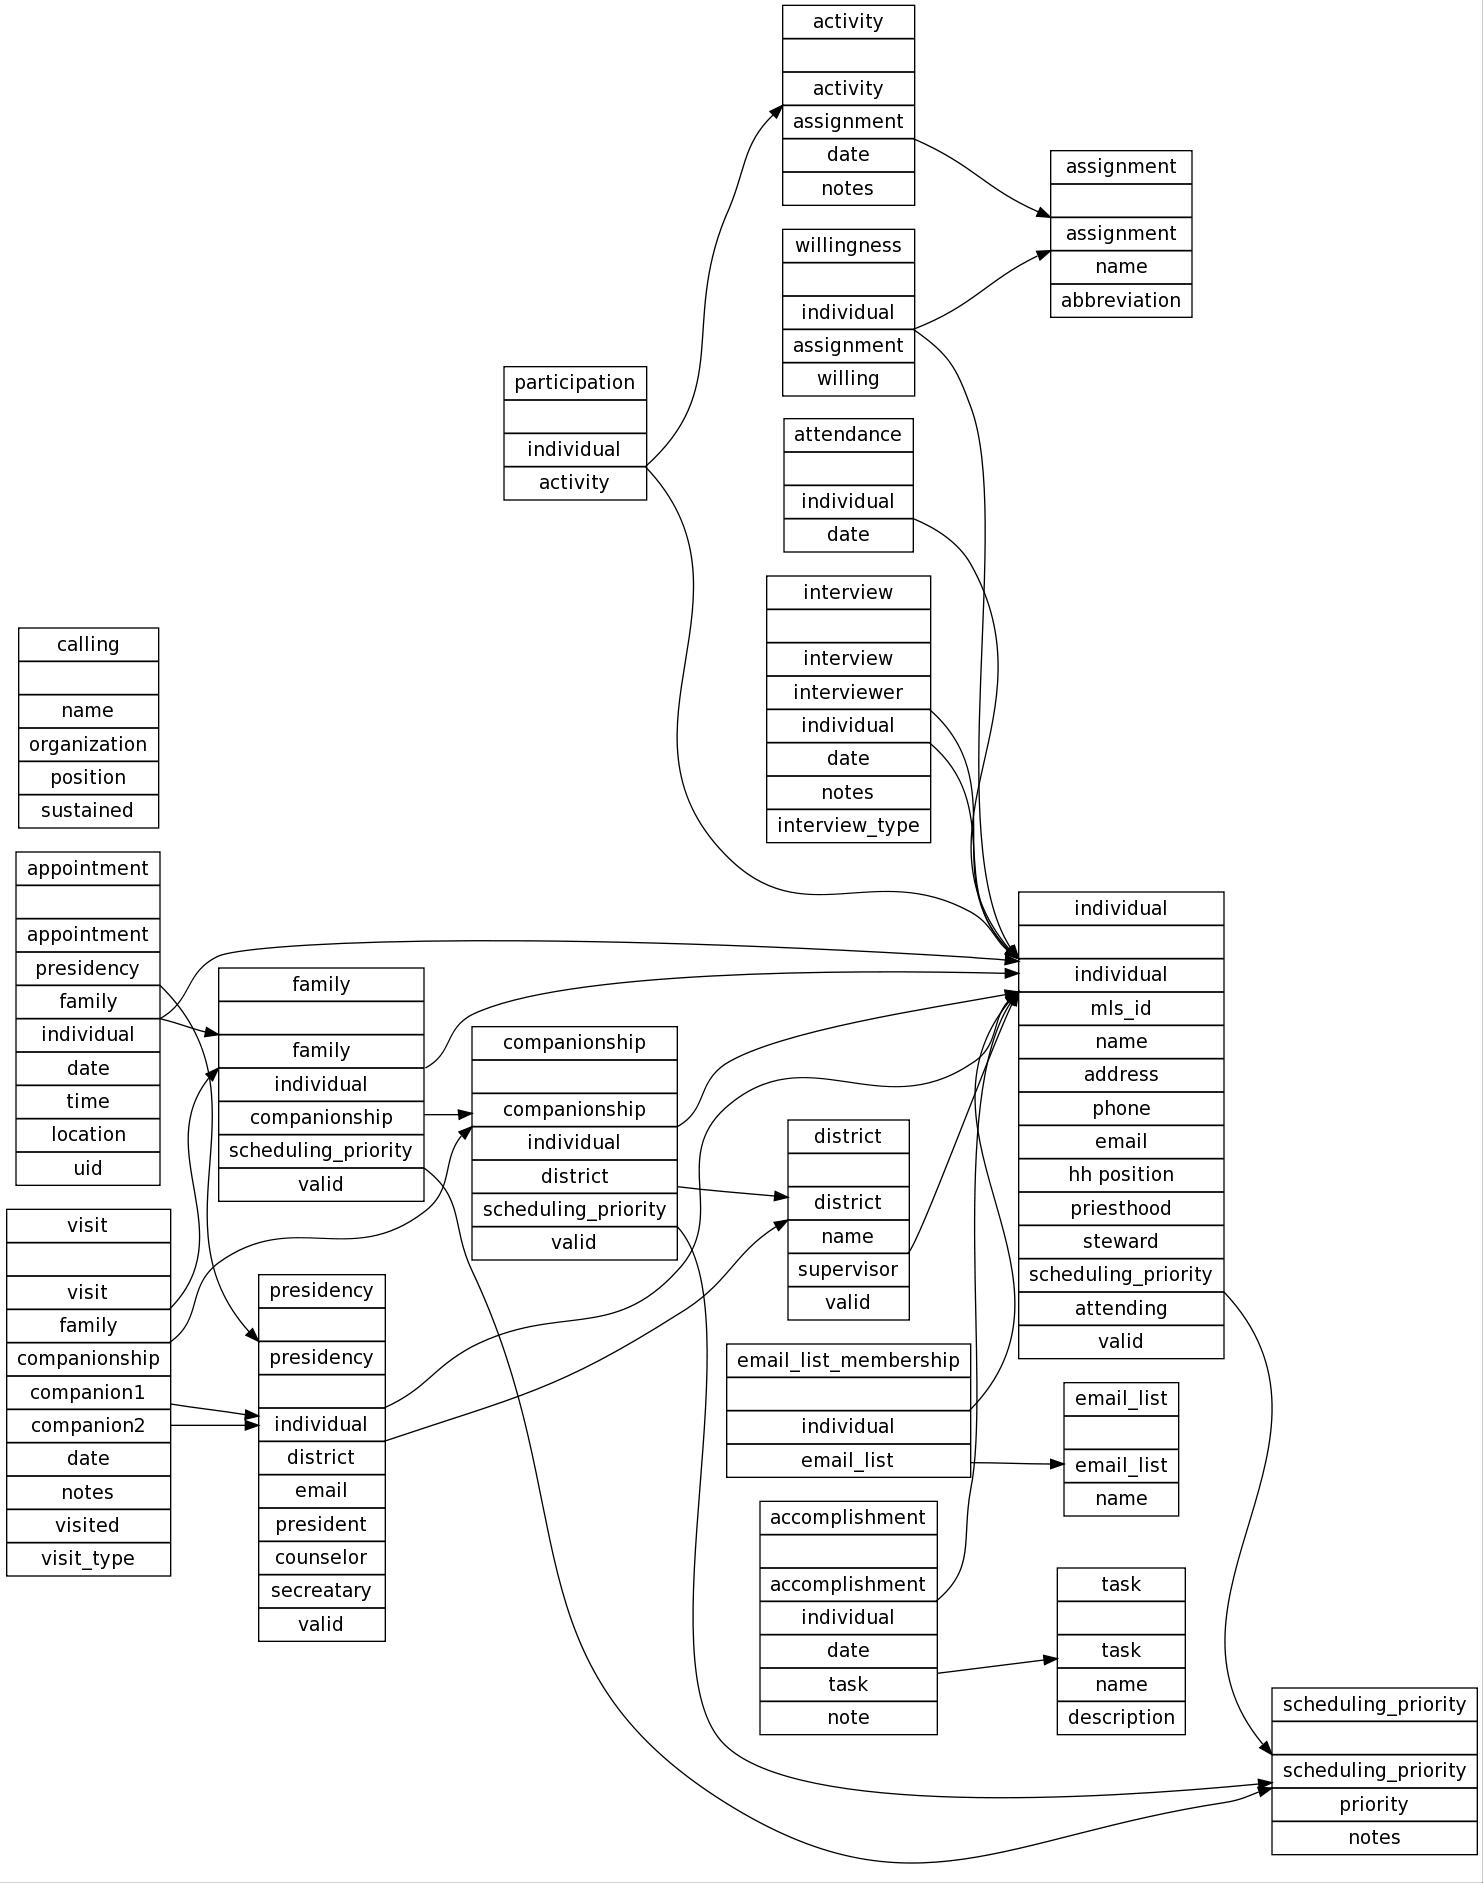
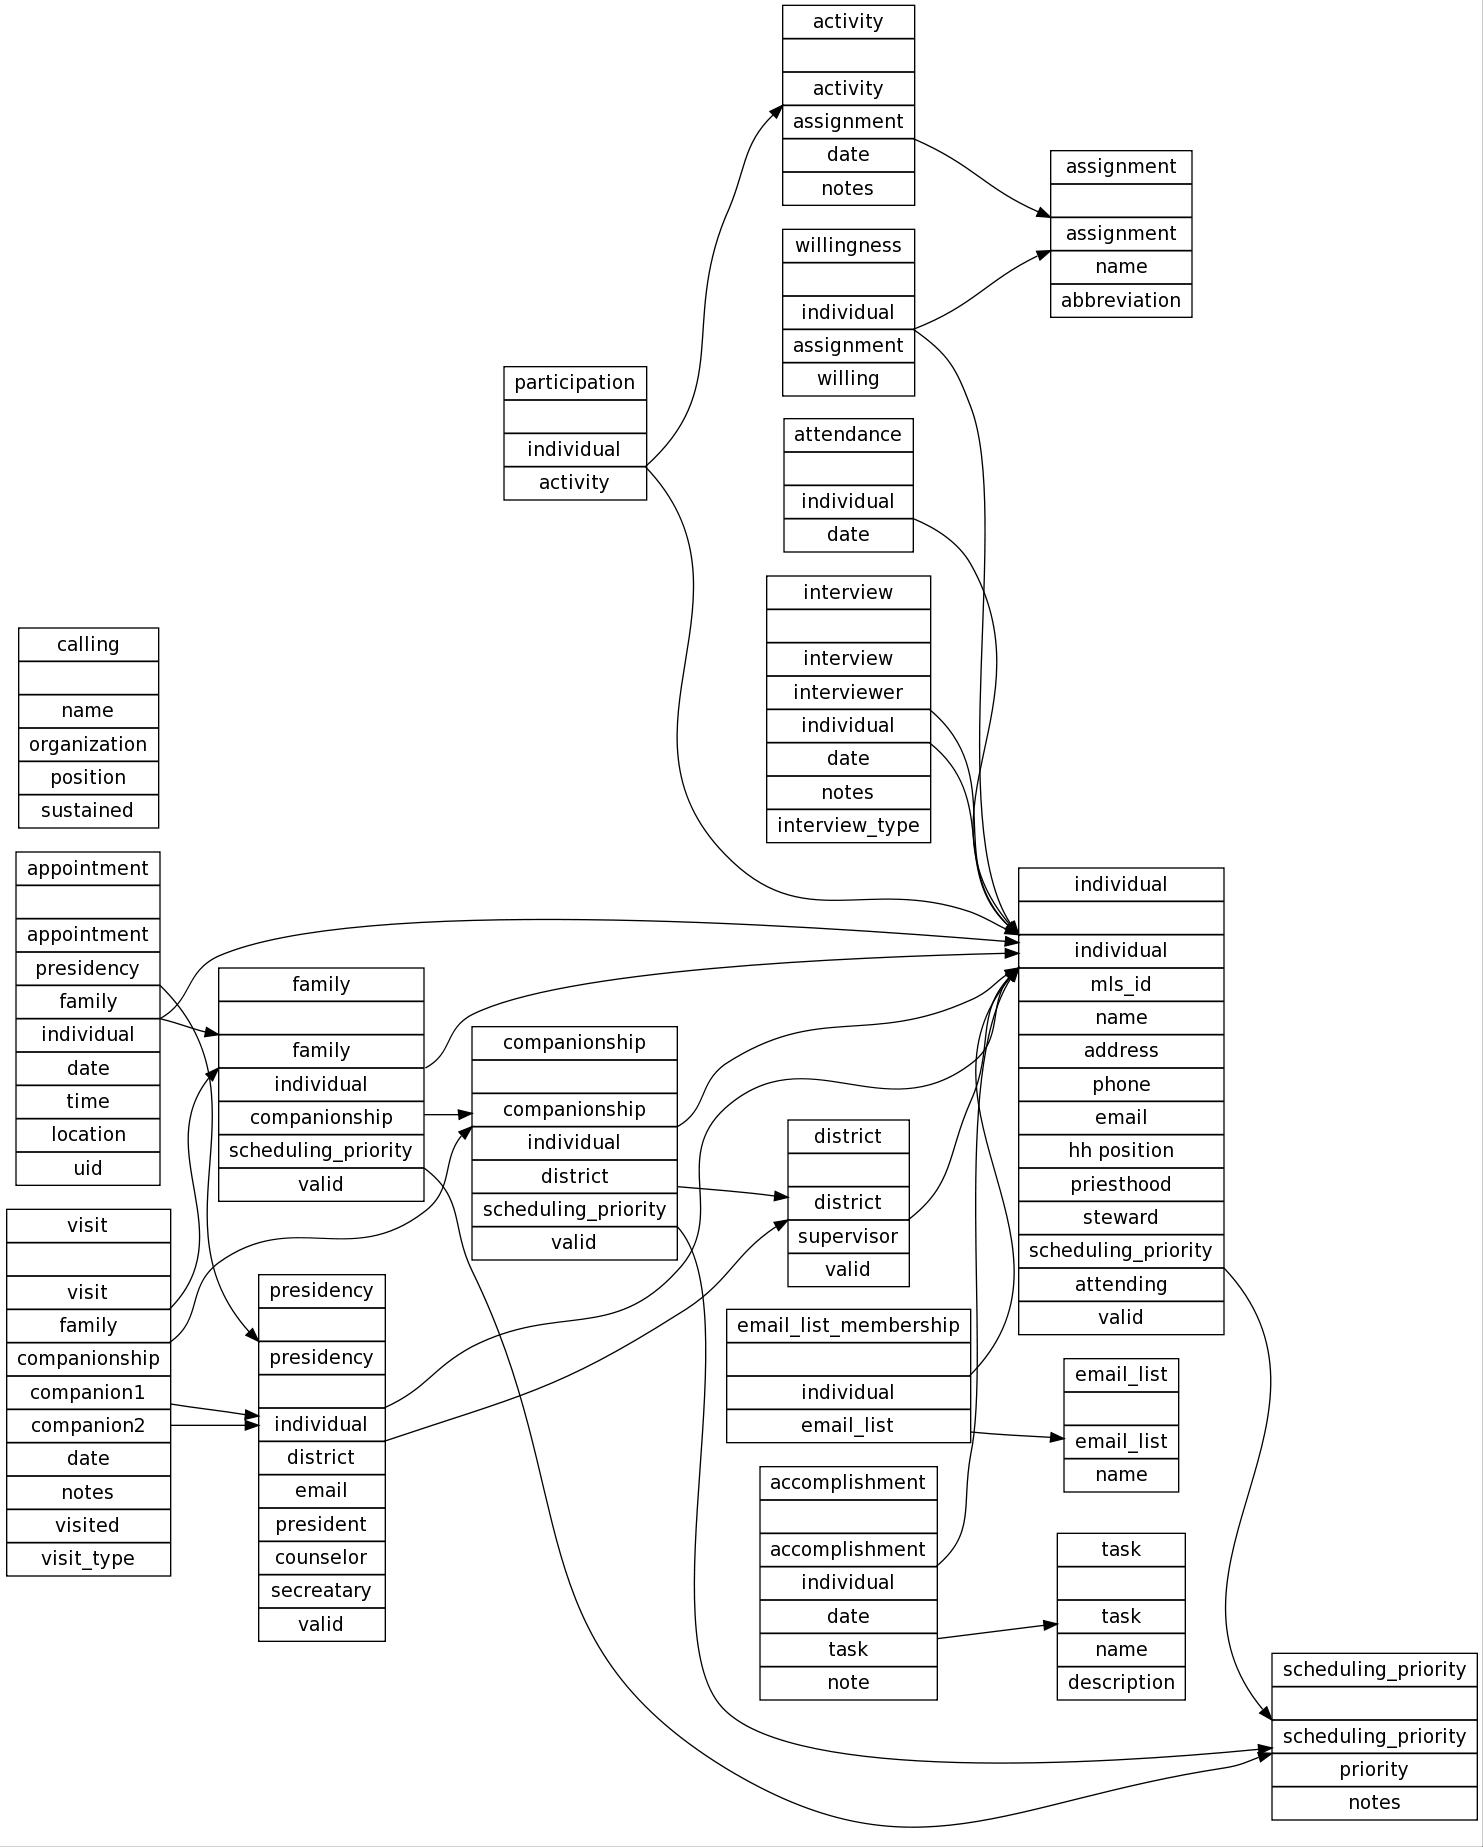
removed name field from tc_district

diff --git a/inc/class.tc.inc.php b/inc/class.tc.inc.php
@@ -203,7 +203,7 @@ class tc
 		$this->t->set_var('actionurl',$GLOBALS['phpgw']->link('/tc/index.php','menuaction=tc.tc.ht_view'));
 		$this->t->set_var('title','Hometeaching'); 
 
-		$sql = "SELECT * FROM tc_district where valid=1 ORDER BY district ASC";
+		$sql = "SELECT * FROM tc_district AS td JOIN tc_individual AS ti WHERE td.supervisor=ti.individual AND td.valid=1 ORDER BY td.district ASC";
 		$this->db->query($sql,__LINE__,__FILE__);
 		$i=0;
 		while ($this->db->next_record()) {
@@ -1775,7 +1775,7 @@ class tc
 		}
 
 		// Get the Districts
-		$sql = "SELECT * FROM tc_district AS td JOIN tc_presidency AS tp WHERE td.district=tp.district AND td.valid=1 ORDER BY td.district ASC";
+		$sql = "SELECT * FROM tc_district AS td JOIN (tc_presidency AS tp, tc_individual AS ti) WHERE td.district=tp.district AND td.supervisor=ti.individual AND td.valid=1 ORDER BY td.district ASC";
 		$this->db->query($sql,__LINE__,__FILE__);
 		$i=0;
 		while ($this->db->next_record()) {
@@ -1889,7 +1889,7 @@ class tc
 			$i=0;
 			for ($j=0; $j < count($unique_companionships); $j++) {
 				// Select all the companions from each companionship
-				$sql = "SELECT * FROM tc_companionship AS tc JOIN (tc_scheduling_priority AS tsp, tc_individual as ti) WHERE tc.scheduling_priority=tsp.scheduling_priority AND tc.individual=ti.individual AND tc.valid=1 AND tc.companionship=". $unique_companionships[$j]['companionship'];
+				$sql = "SELECT * FROM tc_companionship AS tc JOIN (tc_scheduling_priority AS tsp, tc_individual AS ti) WHERE tc.scheduling_priority=tsp.scheduling_priority AND tc.individual=ti.individual AND tc.valid=1 AND tc.companionship=". $unique_companionships[$j]['companionship'];
 				$this->db->query($sql,__LINE__,__FILE__);
 				$k=0; $int_completed=0;
 				$comp = $unique_companionships[$j]['companionship'];
@@ -2601,7 +2601,7 @@ class tc
 		else if($current_month >= 7 && $current_month <= 9) { $current_month=9; }
 		else if($current_month >= 10 && $current_month <= 12) { $current_month=12; }
 
-		$sql = "SELECT * FROM tc_district where valid=1 ORDER BY district ASC";
+		$sql = "SELECT * FROM tc_district AS td JOIN tc_individual AS ti WHERE td.supervisor=ti.individual AND td.valid=1 ORDER BY td.district ASC";
 		$this->db->query($sql,__LINE__,__FILE__);
 		$i=0;
 		while ($this->db->next_record()) {
@@ -4073,8 +4073,8 @@ class tc
 			$name = "High Priests";
 			$indiv = 0;
 			$valid = 0;
-			$this->db2->query("INSERT INTO tc_district (district,name,supervisor,valid) " .
-			                  "VALUES ('" . $district . "','" . $name . "','" .
+			$this->db2->query("INSERT INTO tc_district (district,supervisor,valid) " .
+			                  "VALUES ('" . $district . "','" . 
 			                  $indiv . "','" . $valid . "'" .
 			                  ")",__LINE__,__FILE__);
 
@@ -4091,8 +4091,8 @@ class tc
 
 				// If we have a valid district, add it to the district table
 				if($district > 0) {
-					$this->db2->query("INSERT INTO tc_district (district,name,supervisor,valid) " .
-					                  "VALUES ('" . $district . "','" . $name . "','" .
+					$this->db2->query("INSERT INTO tc_district (district,supervisor,valid) " .
+					                  "VALUES ('" . $district . "','" . 
 					                  $indiv . "','" . $valid . "'" .
 					                  ")",__LINE__,__FILE__);
 				}
